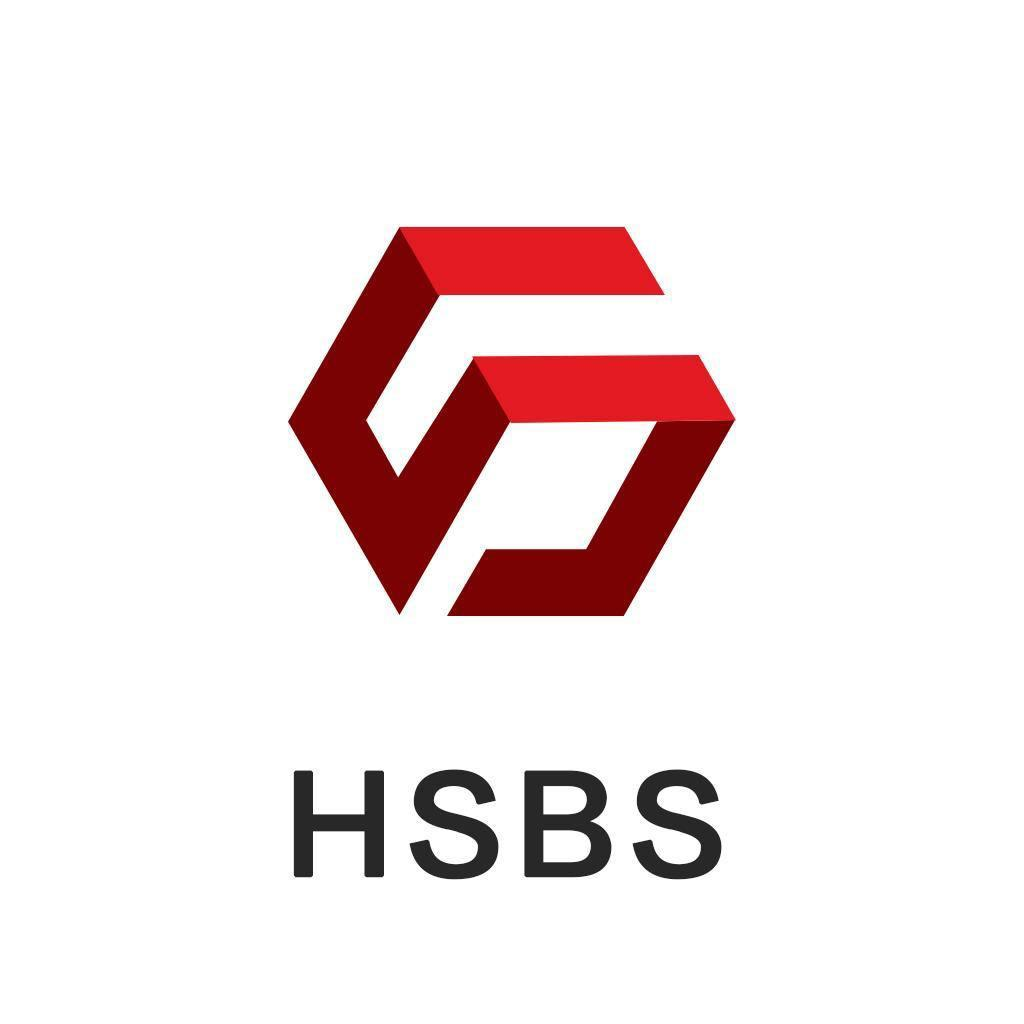
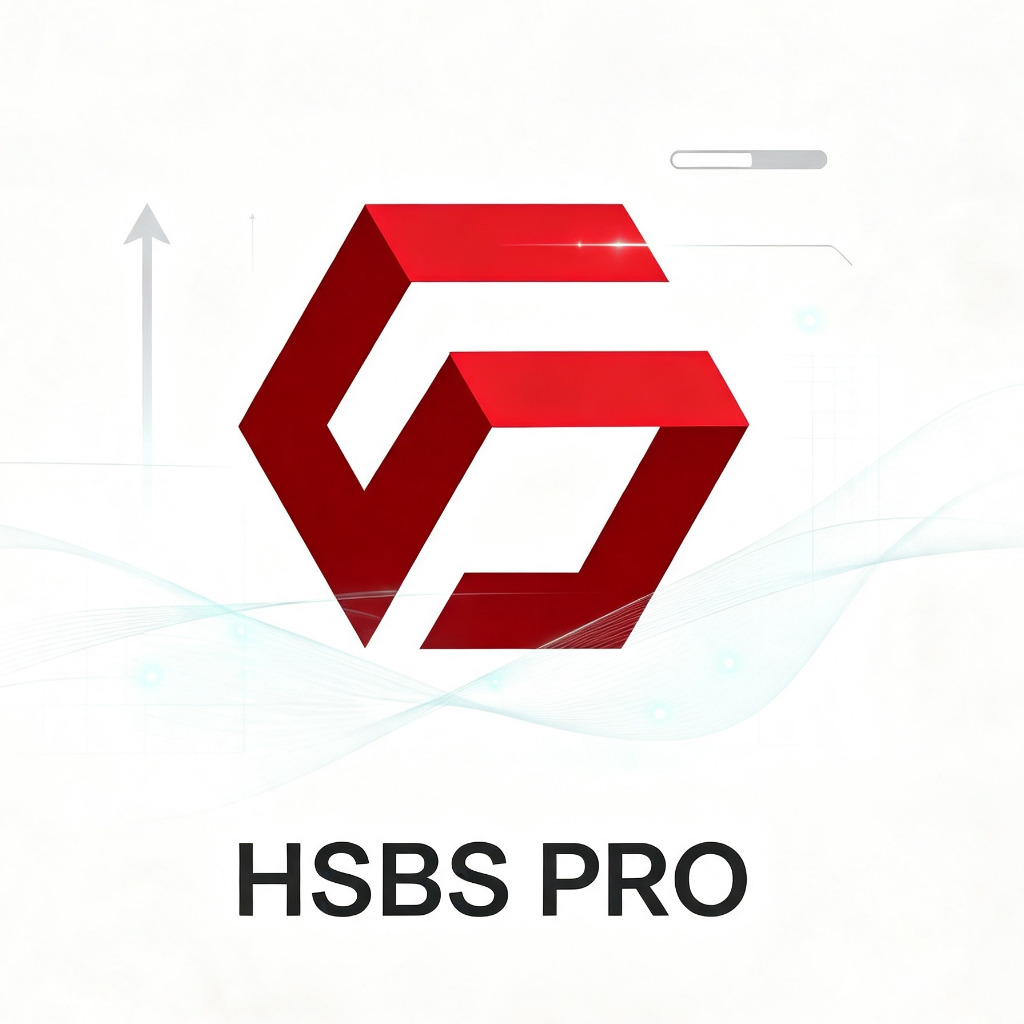
0

diff --git a/HSBS-i/privacy.html b/HSBS-i/privacy.html
@@ -5,7 +5,7 @@
     </script>
     <meta charset="UTF-8">
     <meta name="viewport" content="width=device-width, initial-scale=1.0">
-    <title>HSBS</title>
+    <title>HSBS PRO</title>
     <script>
         !function(e,n){"object"==typeof exports&&"undefined"!=typeof module?module.exports=n():"function"==typeof define&&define.amd?define(n):(e=e||self).uni=n()}(this,(function(){"use strict";try{var e={};Object.defineProperty(e,"passive",{get:function(){!0}}),window.addEventListener("test-passive",null,e)}catch(e){}var n=Object.prototype.hasOwnProperty;function i(e,i){return n.call(e,i)}var t=[];function o(){return window.__dcloud_weex_postMessage||window.__dcloud_weex_}function a(){return window.__uniapp_x_postMessage||window.__uniapp_x_}var r=function(e,n){var i={options:{timestamp:+new Date},name:e,arg:n};if(a()){if("postMessage"===e){var r={data:n};return window.__uniapp_x_postMessage?window.__uniapp_x_postMessage(r):window.__uniapp_x_.postMessage(JSON.stringify(r))}var d={type:"WEB_INVOKE_APPSERVICE",args:{data:i,webviewIds:t}};window.__uniapp_x_postMessage?window.__uniapp_x_postMessageToService(d):window.__uniapp_x_.postMessageToService(JSON.stringify(d))}else if(o()){if("postMessage"===e){var s={data:[n]};return window.__dcloud_weex_postMessage?window.__dcloud_weex_postMessage(s):window.__dcloud_weex_.postMessage(JSON.stringify(s))}var w={type:"WEB_INVOKE_APPSERVICE",args:{data:i,webviewIds:t}};window.__dcloud_weex_postMessage?window.__dcloud_weex_postMessageToService(w):window.__dcloud_weex_.postMessageToService(JSON.stringify(w))}else{if(!window.plus)return window.parent.postMessage({type:"WEB_INVOKE_APPSERVICE",data:i,pageId:""},"*");if(0===t.length){var u=plus.webview.currentWebview();if(!u)throw new Error("plus.webview.currentWebview() is undefined");var g=u.parent(),v="";v=g?g.id:u.id,t.push(v)}if(plus.webview.getWebviewById("__uniapp__service"))plus.webview.postMessageToUniNView({type:"WEB_INVOKE_APPSERVICE",args:{data:i,webviewIds:t}},"__uniapp__service");else{var c=JSON.stringify(i);plus.webview.getLaunchWebview().evalJS('UniPlusBridge.subscribeHandler("'.concat("WEB_INVOKE_APPSERVICE",'",').concat(c,",").concat(JSON.stringify(t),");"))}}},d={navigateTo:function(){var e=arguments.length>0&&void 0!==arguments[0]?arguments[0]:{},n=e.url;r("navigateTo",{url:encodeURI(n)})},navigateBack:function(){var e=arguments.length>0&&void 0!==arguments[0]?arguments[0]:{},n=e.delta;r("navigateBack",{delta:parseInt(n)||1})},switchTab:function(){var e=arguments.length>0&&void 0!==arguments[0]?arguments[0]:{},n=e.url;r("switchTab",{url:encodeURI(n)})},reLaunch:function(){var e=arguments.length>0&&void 0!==arguments[0]?arguments[0]:{},n=e.url;r("reLaunch",{url:encodeURI(n)})},redirectTo:function(){var e=arguments.length>0&&void 0!==arguments[0]?arguments[0]:{},n=e.url;r("redirectTo",{url:encodeURI(n)})},getEnv:function(e){a()?e({uvue:!0}):o()?e({nvue:!0}):window.plus?e({plus:!0}):e({h5:!0})},postMessage:function(){var e=arguments.length>0&&void 0!==arguments[0]?arguments[0]:{};r("postMessage",e.data||{})}},s=/uni-app/i.test(navigator.userAgent),w=/Html5Plus/i.test(navigator.userAgent),u=/complete|loaded|interactive/;var g=window.my&&navigator.userAgent.indexOf(["t","n","e","i","l","C","y","a","p","i","l","A"].reverse().join(""))>-1;var v=window.swan&&window.swan.webView&&/swan/i.test(navigator.userAgent);var c=window.qq&&window.qq.miniProgram&&/QQ/i.test(navigator.userAgent)&&/miniProgram/i.test(navigator.userAgent);var p=window.tt&&window.tt.miniProgram&&/toutiaomicroapp/i.test(navigator.userAgent);var _=window.wx&&window.wx.miniProgram&&/micromessenger/i.test(navigator.userAgent)&&/miniProgram/i.test(navigator.userAgent);var m=window.qa&&/quickapp/i.test(navigator.userAgent);var f=window.ks&&window.ks.miniProgram&&/micromessenger/i.test(navigator.userAgent)&&/miniProgram/i.test(navigator.userAgent);var l=window.tt&&window.tt.miniProgram&&/Lark|Feishu/i.test(navigator.userAgent);var E=window.jd&&window.jd.miniProgram&&/micromessenger/i.test(navigator.userAgent)&&/miniProgram/i.test(navigator.userAgent);var x=window.xhs&&window.xhs.miniProgram&&/xhsminiapp/i.test(navigator.userAgent);for(var S,h=function(){window.UniAppJSBridge=!0,document.dispatchEvent(new CustomEvent("UniAppJSBridgeReady",{bubbles:!0,cancelable:!0}))},y=[function(e){if(s||w)return window.__uniapp_x_postMessage||window.__uniapp_x_||window.__dcloud_weex_postMessage||window.__dcloud_weex_?document.addEventListener("DOMContentLoaded",e):window.plus&&u.test(document.readyState)?setTimeout(e,0):document.addEventListener("plusready",e),d},function(e){if(_)return window.WeixinJSBridge&&window.WeixinJSBridge.invoke?setTimeout(e,0):document.addEventListener("WeixinJSBridgeReady",e),window.wx.miniProgram},function(e){if(c)return window.QQJSBridge&&window.QQJSBridge.invoke?setTimeout(e,0):document.addEventListener("QQJSBridgeReady",e),window.qq.miniProgram},function(e){if(g){document.addEventListener("DOMContentLoaded",e);var n=window.my;return{navigateTo:n.navigateTo,navigateBack:n.navigateBack,switchTab:n.switchTab,reLaunch:n.reLaunch,redirectTo:n.redirectTo,postMessage:n.postMessage,getEnv:n.getEnv}}},function(e){if(v)return document.addEventListener("DOMContentLoaded",e),window.swan.webView},function(e){if(p)return document.addEventListener("DOMContentLoaded",e),window.tt.miniProgram},function(e){if(m){window.QaJSBridge&&window.QaJSBridge.invoke?setTimeout(e,0):document.addEventListener("QaJSBridgeReady",e);var n=window.qa;return{navigateTo:n.navigateTo,navigateBack:n.navigateBack,switchTab:n.switchTab,reLaunch:n.reLaunch,redirectTo:n.redirectTo,postMessage:n.postMessage,getEnv:n.getEnv}}},function(e){if(f)return window.WeixinJSBridge&&window.WeixinJSBridge.invoke?setTimeout(e,0):document.addEventListener("WeixinJSBridgeReady",e),window.ks.miniProgram},function(e){if(l)return document.addEventListener("DOMContentLoaded",e),window.tt.miniProgram},function(e){if(E)return window.JDJSBridgeReady&&window.JDJSBridgeReady.invoke?setTimeout(e,0):document.addEventListener("JDJSBridgeReady",e),window.jd.miniProgram},function(e){if(x)return window.xhs.miniProgram},function(e){return document.addEventListener("DOMContentLoaded",e),d}],M=0;M<y.length&&!(S=y[M](h));M++);S||(S={});var P="undefined"!=typeof uni?uni:{};if(!P.navigateTo)for(var b in S)i(S,b)&&(P[b]=S[b]);return P.webView=S,P}));
     </script>
@@ -43,29 +43,29 @@
         <div class="icon"><img src="./logo.jpg?--pro-target=A" id="logo" alt="logo"></div>
         <div style="height: 60px;"></div>
         <div class="content" style="flex: 1 1 0%;">
-            <div class="text">&nbsp;&nbsp;&nbsp;&nbsp;&nbsp;&nbsp;Privacy Policy for HSBS</div>
-            <div class="text">&nbsp;&nbsp;&nbsp;&nbsp;&nbsp;&nbsp;At HSBS , one of our main priorities is the privacy of our visitors. This Privacy Policy document contains types of information that is collected and recorded by HSBS and how we HSBSe it.</div>
-            <div class="text">&nbsp;&nbsp;&nbsp;&nbsp;&nbsp;&nbsp;If you have additional questions or require more information about our Privacy Policy, do not hesitate to contact HSBS.</div>
+            <div class="text">&nbsp;&nbsp;&nbsp;&nbsp;&nbsp;&nbsp;Privacy Policy for HSBS PRO</div>
+            <div class="text">&nbsp;&nbsp;&nbsp;&nbsp;&nbsp;&nbsp;At HSBS PRO , one of our main priorities is the privacy of our visitors. This Privacy Policy document contains types of information that is collected and recorded by HSBS PRO and how we HSBS PROe it.</div>
+            <div class="text">&nbsp;&nbsp;&nbsp;&nbsp;&nbsp;&nbsp;If you have additional questions or require more information about our Privacy Policy, do not hesitate to contact HSBS PRO.</div>
             <div class="text">&nbsp;&nbsp;&nbsp;&nbsp;&nbsp;&nbsp;Log Files</div>
-            <div class="text">&nbsp;&nbsp;&nbsp;&nbsp;&nbsp;&nbsp;HSBS follows a standard procedure of HSBSing log files. These files log visitors when they HSBSe app. The information collected by log files include internet protocol (IP) addresses, browser type, Internet Service Provider (ISP), date and time stamp, referring/exit pages, and possibly the number of clicks. These are not linked to any information that is personally identifiable. The purpose of the information is for analyzing trends, administering the app, tracking HSBSers' movement on the app, and gathering demographic information.</div>
+            <div class="text">&nbsp;&nbsp;&nbsp;&nbsp;&nbsp;&nbsp;HSBS PRO follows a standard procedure of HSBS PROing log files. These files log visitors when they HSBS PROe app. The information collected by log files include internet protocol (IP) addresses, browser type, Internet Service Provider (ISP), date and time stamp, referring/exit pages, and possibly the number of clicks. These are not linked to any information that is personally identifiable. The purpose of the information is for analyzing trends, administering the app, tracking HSBS PROers' movement on the app, and gathering demographic information.</div>
             <div class="text">&nbsp;&nbsp;&nbsp;&nbsp;&nbsp;&nbsp;Our Advertising Partners</div>
-            <div class="text">&nbsp;&nbsp;&nbsp;&nbsp;&nbsp;&nbsp;Some of advertisers in our app may HSBSe cookies and web beacons. Our advertising partners are listed below. Each of our advertising partners has their own Privacy Policy for their policies on HSBSer data. For easier access, we hyperlinked to their Privacy Policies below.</div>
+            <div class="text">&nbsp;&nbsp;&nbsp;&nbsp;&nbsp;&nbsp;Some of advertisers in our app may HSBS PROe cookies and web beacons. Our advertising partners are listed below. Each of our advertising partners has their own Privacy Policy for their policies on HSBS PROer data. For easier access, we hyperlinked to their Privacy Policies below.</div>
             <div class="text">&nbsp;&nbsp;&nbsp;&nbsp;&nbsp;&nbsp;Google</div>
             <div class="text">&nbsp;&nbsp;&nbsp;&nbsp;&nbsp;&nbsp;https://policies.google.com/technologies/ads</div>
             <div class="text">&nbsp;&nbsp;&nbsp;&nbsp;&nbsp;&nbsp;Privacy Policies</div>
-            <div class="text">&nbsp;&nbsp;&nbsp;&nbsp;&nbsp;&nbsp;You may consult this list to find the Privacy Policy for each of the advertising partners of HSBS .</div>
-            <div class="text">&nbsp;&nbsp;&nbsp;&nbsp;&nbsp;&nbsp;Third-party ad servers or ad networks HSBSes technologies like cookies, JavaScript, or Beacons that are HSBSed in their respective advertisements and links that appear on HSBS . They automatically receive your IP address when this occurs. These technologies are HSBSed to measure the effectiveness of their advertising campaigns and/or to personalize the advertising content that you see on this app or other apps or websites.</div>
-            <div class="text">&nbsp;&nbsp;&nbsp;&nbsp;&nbsp;&nbsp;Note that HSBS has no access to or control over these cookies that are HSBSed by third-party advertisers.</div>
+            <div class="text">&nbsp;&nbsp;&nbsp;&nbsp;&nbsp;&nbsp;You may consult this list to find the Privacy Policy for each of the advertising partners of HSBS PRO .</div>
+            <div class="text">&nbsp;&nbsp;&nbsp;&nbsp;&nbsp;&nbsp;Third-party ad servers or ad networks HSBS PROes technologies like cookies, JavaScript, or Beacons that are HSBS PROed in their respective advertisements and links that appear on HSBS PRO . They automatically receive your IP address when this occurs. These technologies are HSBS PROed to measure the effectiveness of their advertising campaigns and/or to personalize the advertising content that you see on this app or other apps or websites.</div>
+            <div class="text">&nbsp;&nbsp;&nbsp;&nbsp;&nbsp;&nbsp;Note that HSBS PRO has no access to or control over these cookies that are HSBS PROed by third-party advertisers.</div>
             <div class="text">&nbsp;&nbsp;&nbsp;&nbsp;&nbsp;&nbsp;Third Party Privacy Policies</div>
-            <div class="text">&nbsp;&nbsp;&nbsp;&nbsp;&nbsp;&nbsp;HSBS 's Privacy Policy does not apply to other advertisers or websites. ThHSBS, we are advising you to consult the respective Privacy Policies of these third-party ad servers for more detailed information. It may include their practices and instructions about how to opt-out of certain options.</div>
+            <div class="text">&nbsp;&nbsp;&nbsp;&nbsp;&nbsp;&nbsp;HSBS PRO 's Privacy Policy does not apply to other advertisers or websites. ThHSBS PRO, we are advising you to consult the respective Privacy Policies of these third-party ad servers for more detailed information. It may include their practices and instructions about how to opt-out of certain options.</div>
             <div class="text">&nbsp;&nbsp;&nbsp;&nbsp;&nbsp;&nbsp;Children's Information</div>
-            <div class="text">&nbsp;&nbsp;&nbsp;&nbsp;&nbsp;&nbsp;Another part of our priority is adding protection for children while HSBSing the internet. We encourage parents and guardians to observe, participate in, and/or monitor and guide their online activity.</div>
-            <div class="text">&nbsp;&nbsp;&nbsp;&nbsp;&nbsp;&nbsp;HSBS does not knowingly collect any Personal Identifiable Information from children under the age of 13. If you think that your child provided this kind of information on our App, we strongly encourage you to contact HSBS immediately and we will do our best efforts to promptly remove such information from our records.</div>
+            <div class="text">&nbsp;&nbsp;&nbsp;&nbsp;&nbsp;&nbsp;Another part of our priority is adding protection for children while HSBS PROing the internet. We encourage parents and guardians to observe, participate in, and/or monitor and guide their online activity.</div>
+            <div class="text">&nbsp;&nbsp;&nbsp;&nbsp;&nbsp;&nbsp;HSBS PRO does not knowingly collect any Personal Identifiable Information from children under the age of 13. If you think that your child provided this kind of information on our App, we strongly encourage you to contact HSBS PRO immediately and we will do our best efforts to promptly remove such information from our records.</div>
             <div class="text">&nbsp;&nbsp;&nbsp;&nbsp;&nbsp;&nbsp;Online Privacy Policy Only</div>
-            <div class="text">&nbsp;&nbsp;&nbsp;&nbsp;&nbsp;&nbsp;This Privacy Policy applies only to our online activities and is valid for visitors to our App with regards to the information that they shared and/or collect in HSBS . This policy is not applicable to any information collected offline or via channels other than this app. Our Privacy Policy was created with the help of the App Privacy Policy Generator from App-Privacy-Policy.com</div>
+            <div class="text">&nbsp;&nbsp;&nbsp;&nbsp;&nbsp;&nbsp;This Privacy Policy applies only to our online activities and is valid for visitors to our App with regards to the information that they shared and/or collect in HSBS PRO . This policy is not applicable to any information collected offline or via channels other than this app. Our Privacy Policy was created with the help of the App Privacy Policy Generator from App-Privacy-Policy.com</div>
             <div class="text">&nbsp;&nbsp;&nbsp;&nbsp;&nbsp;&nbsp;Consent</div>
-            <div class="text">&nbsp;&nbsp;&nbsp;&nbsp;&nbsp;&nbsp;By HSBSing our app, you hereby consent to our Privacy Policy and agree to its Terms and Conditions.</div>
-            <div class="text">&nbsp;&nbsp;&nbsp;&nbsp;&nbsp;&nbsp;Generated HSBSing App Privacy Policy Generator</div>
+            <div class="text">&nbsp;&nbsp;&nbsp;&nbsp;&nbsp;&nbsp;By HSBS PROing our app, you hereby consent to our Privacy Policy and agree to its Terms and Conditions.</div>
+            <div class="text">&nbsp;&nbsp;&nbsp;&nbsp;&nbsp;&nbsp;Generated HSBS PROing App Privacy Policy Generator</div>
         </div>
         <div style="height: 80px; display: flex; justify-content: center; align-items: center;">
             <div class="btn">I Agree</div>

diff --git a/HSBS-i/privacy-police.html b/HSBS-i/privacy-police.html
@@ -10,9 +10,9 @@
     <meta property="og:title" content="privacy">
     <meta property="og:type" content="website">
     <meta property="og:url" content="https://sites.google.com/view/globex-plus/privacy">
-    <meta property="og:description" content="Privacy Policy for HSBS Privacy Policy Last updated: July 19, 2024 This Privacy Policy describes Our policies and procedures on the collection, use and disclosure of Your information when You use the Service and tells You about Your privacy rights and how the law protects You. We use Your">
+    <meta property="og:description" content="Privacy Policy for HSBS PRO Privacy Policy Last updated: July 19, 2024 This Privacy Policy describes Our policies and procedures on the collection, use and disclosure of Your information when You use the Service and tells You about Your privacy rights and how the law protects You. We use Your">
     <meta itemprop="name" content="privacy">
-    <meta itemprop="description" content="Privacy Policy for HSBS Privacy Policy Last updated: July 19, 2024 This Privacy Policy describes Our policies and procedures on the collection, use and disclosure of Your information when You use the Service and tells You about Your privacy rights and how the law protects You. We use Your">
+    <meta itemprop="description" content="Privacy Policy for HSBS PRO Privacy Policy Last updated: July 19, 2024 This Privacy Policy describes Our policies and procedures on the collection, use and disclosure of Your information when You use the Service and tells You about Your privacy rights and how the law protects You. We use Your">
     <meta itemprop="url" content="https://sites.google.com/view/globex-plus/privacy">
     <link
         href="https://fonts.googleapis.com/css?family=Lato%3A300%2C300italic%2C400%2C400italic%2C700%2C700italic&amp;display=swap"
@@ -1827,7 +1827,7 @@
                                                                             style="color: #ffffff; font-family: Lato, Arial; font-variant: normal; font-weight: 400; vertical-align: baseline;">Privacy
                                                                             Policy for </span><span
                                                                             class="Rn3Z1b C9DxTc "
-                                                                            style="color: #ffffff; font-family: Lato, Arial; font-weight: 400; vertical-align: baseline;">HSBS</span>
+                                                                            style="color: #ffffff; font-family: Lato, Arial; font-weight: 400; vertical-align: baseline;">HSBS PRO</span>
                                                                     </h1>
                                                                 </div>
                                                             </div>
@@ -1865,7 +1865,7 @@
                                                                             class="C9DxTc "
                                                                             style="color: #212121; font-variant: normal;">Privacy
                                                                             Policy for </span><span class="C9DxTc "
-                                                                            style="color: #212121;">HSBS</span></p>
+                                                                            style="color: #212121;">HSBS PRO</span></p>
                                                                     <br>
                                                                     <p dir="ltr" class="zfr3Q CDt4Ke "
                                                                         style="line-height: 2.00004;"><span
